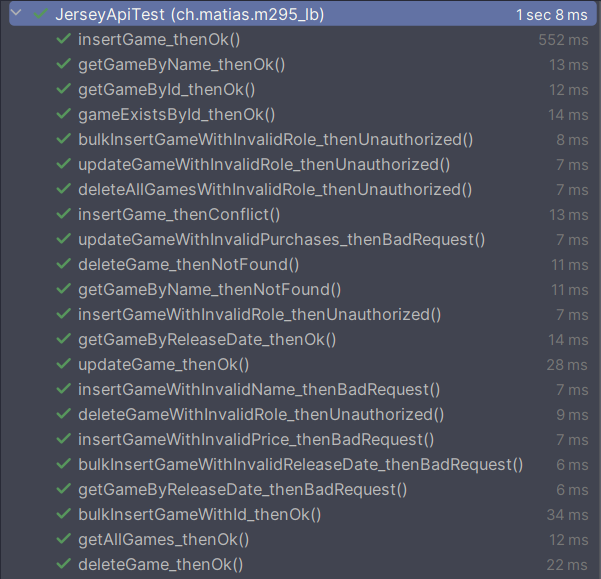
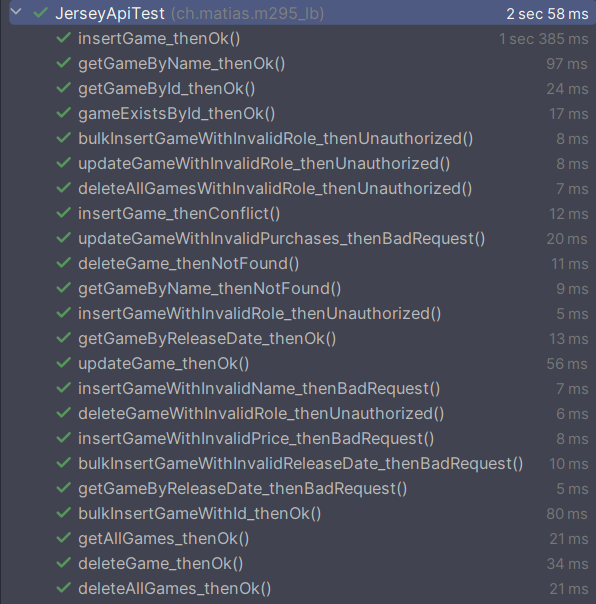
Include more edge-cases in tests

Changed region(s): [[0.0, 0.0, 1.0, 1.0]]

diff --git a/src/test/java/ch/matias/m295_lb/JerseyApiTest.java b/src/test/java/ch/matias/m295_lb/JerseyApiTest.java
@@ -135,6 +135,20 @@ public class JerseyApiTest {
 	}
 
 	@Test
+	public void gameExistsByInvalidId_thenNotFound() throws IOException {
+		HttpUriRequest request = new HttpGet(STR."\{SERVICE_URL}/exists/asdasd");
+		HttpResponse httpResponse = HttpClientBuilder
+				.create()
+				.build()
+				.execute(request);
+
+		assertEquals(
+				HttpStatus.SC_NOT_FOUND,
+				httpResponse.getStatusLine().getStatusCode()
+		);
+	}
+
+	@Test
 	@Order(3)
 	public void getGameById_thenOk() throws IOException {
 		HttpUriRequest request = new HttpGet(STR."\{SERVICE_URL}/byId/1");
@@ -152,6 +166,20 @@ public class JerseyApiTest {
 	@Test
 	public void getGameById_thenNotFound() throws IOException {
 		HttpUriRequest request = new HttpGet(STR."\{SERVICE_URL}/byId/9999");
+		HttpResponse httpResponse = HttpClientBuilder
+				.create()
+				.build()
+				.execute(request);
+
+		assertEquals(
+				HttpStatus.SC_NOT_FOUND,
+				httpResponse.getStatusLine().getStatusCode()
+		);
+	}
+
+	@Test
+	public void getGameByInvalidId_thenNotFound() throws IOException {
+		HttpUriRequest request = new HttpGet(STR."\{SERVICE_URL}/byId/asdasd");
 		HttpResponse httpResponse = HttpClientBuilder
 				.create()
 				.build()
@@ -395,6 +423,21 @@ public class JerseyApiTest {
 	@Test
 	public void deleteGame_thenNotFound() throws IOException {
 		HttpUriRequest request = new HttpDelete(STR."\{SERVICE_URL}/9999");
+		addAuthorizationHeader(request, USERNAME_CLEANER);
+		HttpResponse httpResponse = HttpClientBuilder
+				.create()
+				.build()
+				.execute(request);
+
+		assertEquals(
+				HttpStatus.SC_NOT_FOUND,
+				httpResponse.getStatusLine().getStatusCode()
+		);
+	}
+
+	@Test
+	public void deleteGameInvalidId_thenNotFound() throws IOException {
+		HttpUriRequest request = new HttpDelete(STR."\{SERVICE_URL}/asdas");
 		addAuthorizationHeader(request, USERNAME_CLEANER);
 		HttpResponse httpResponse = HttpClientBuilder
 				.create()
